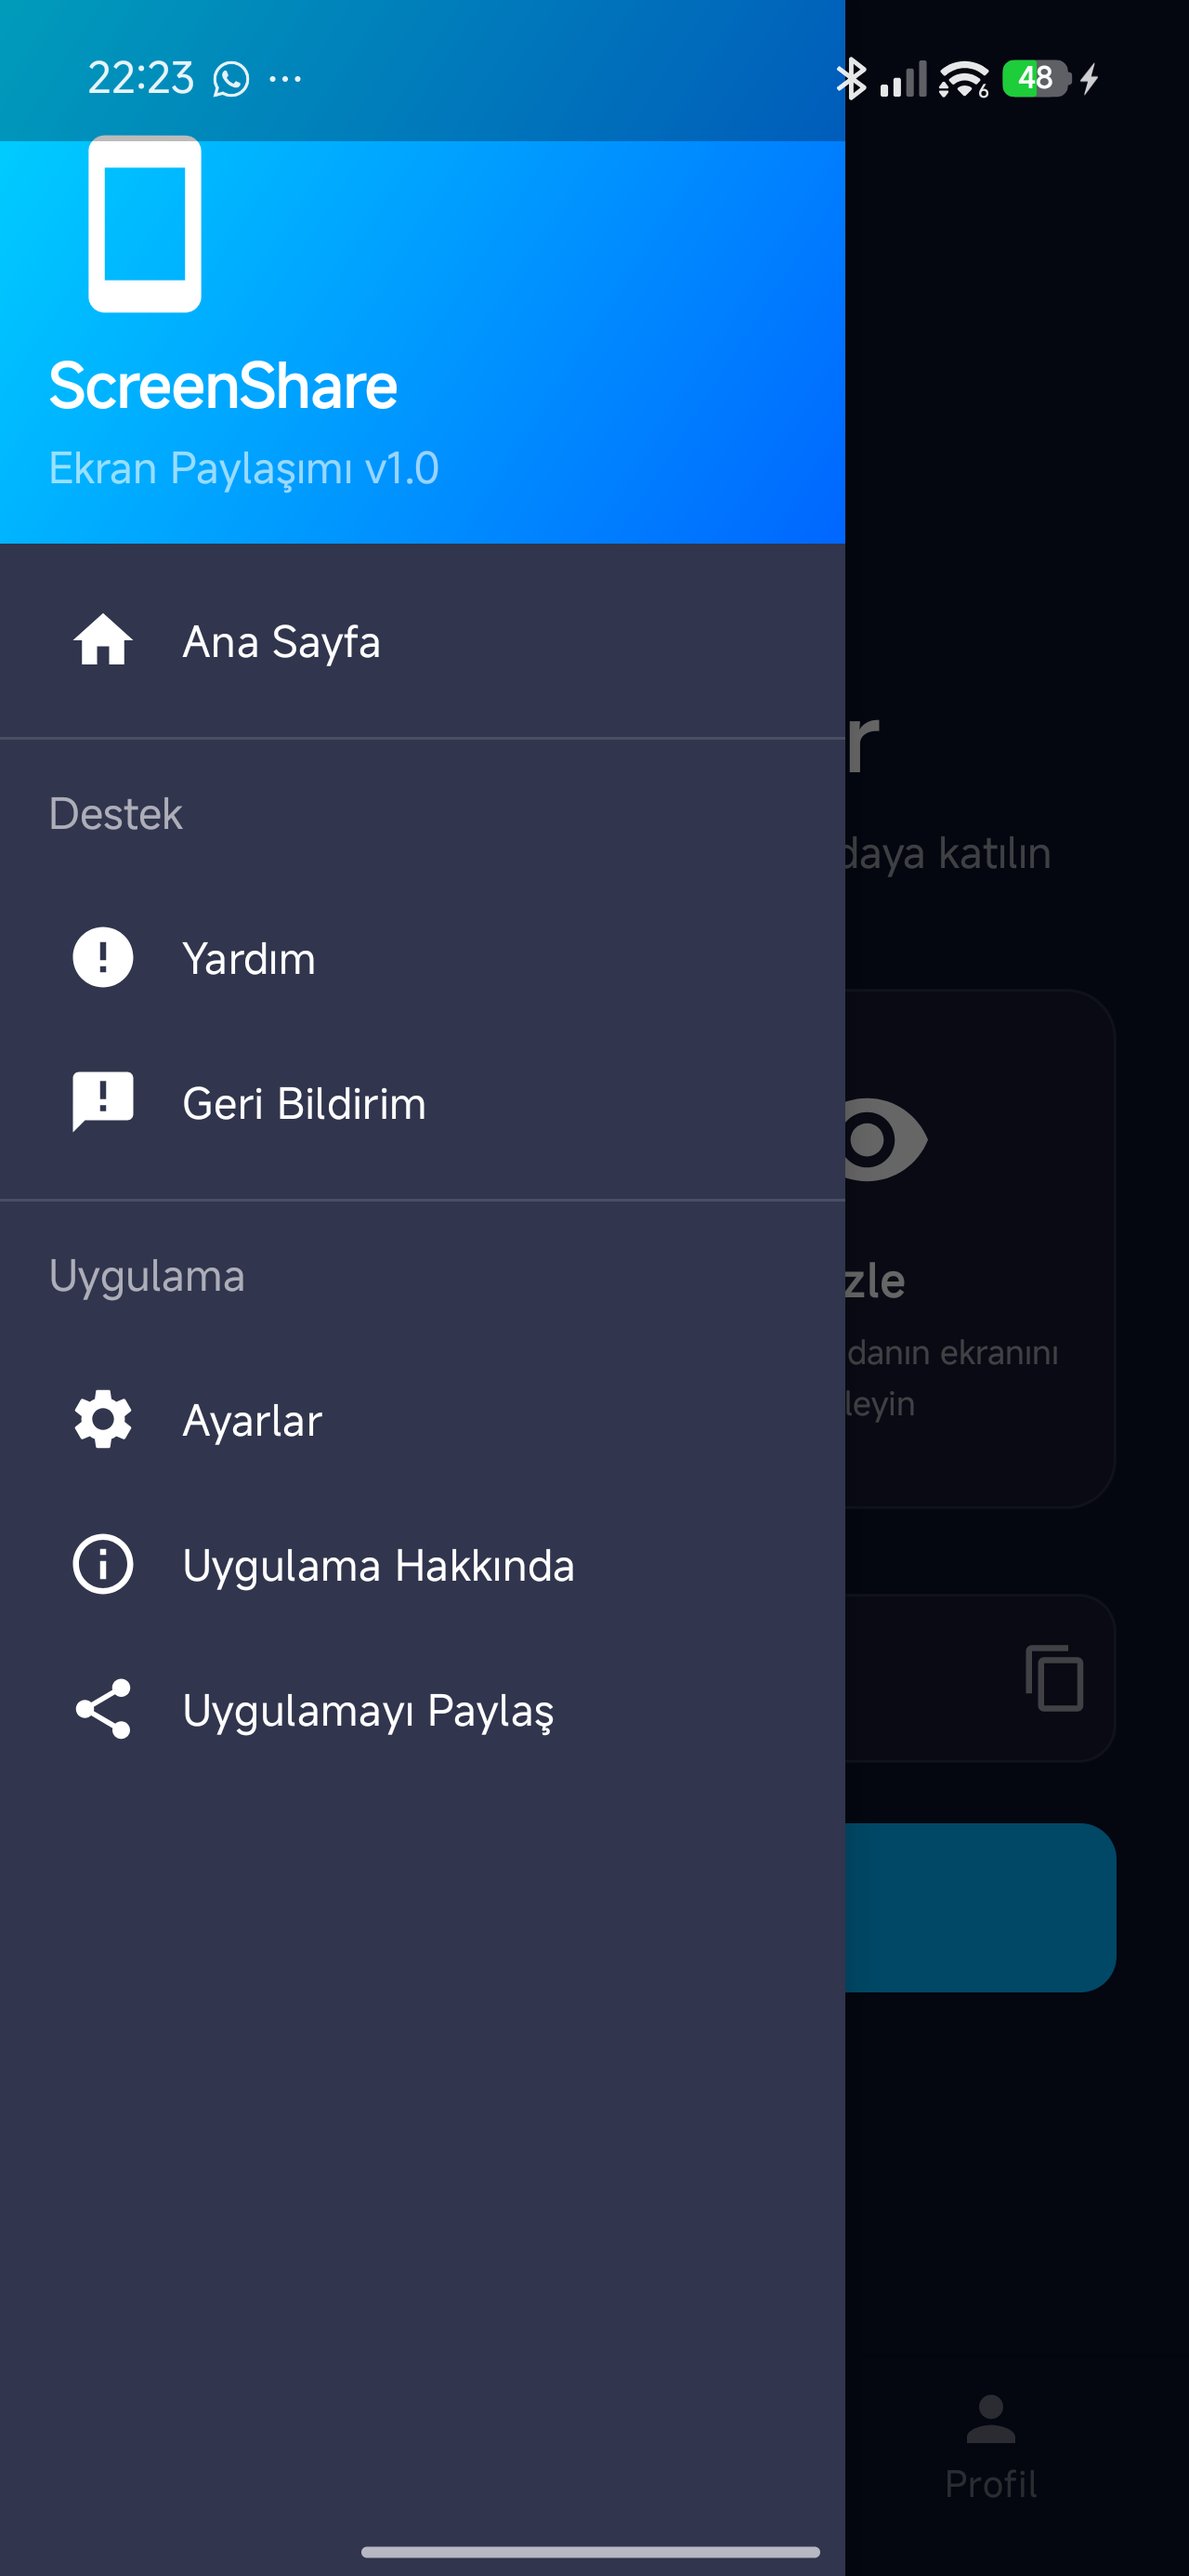
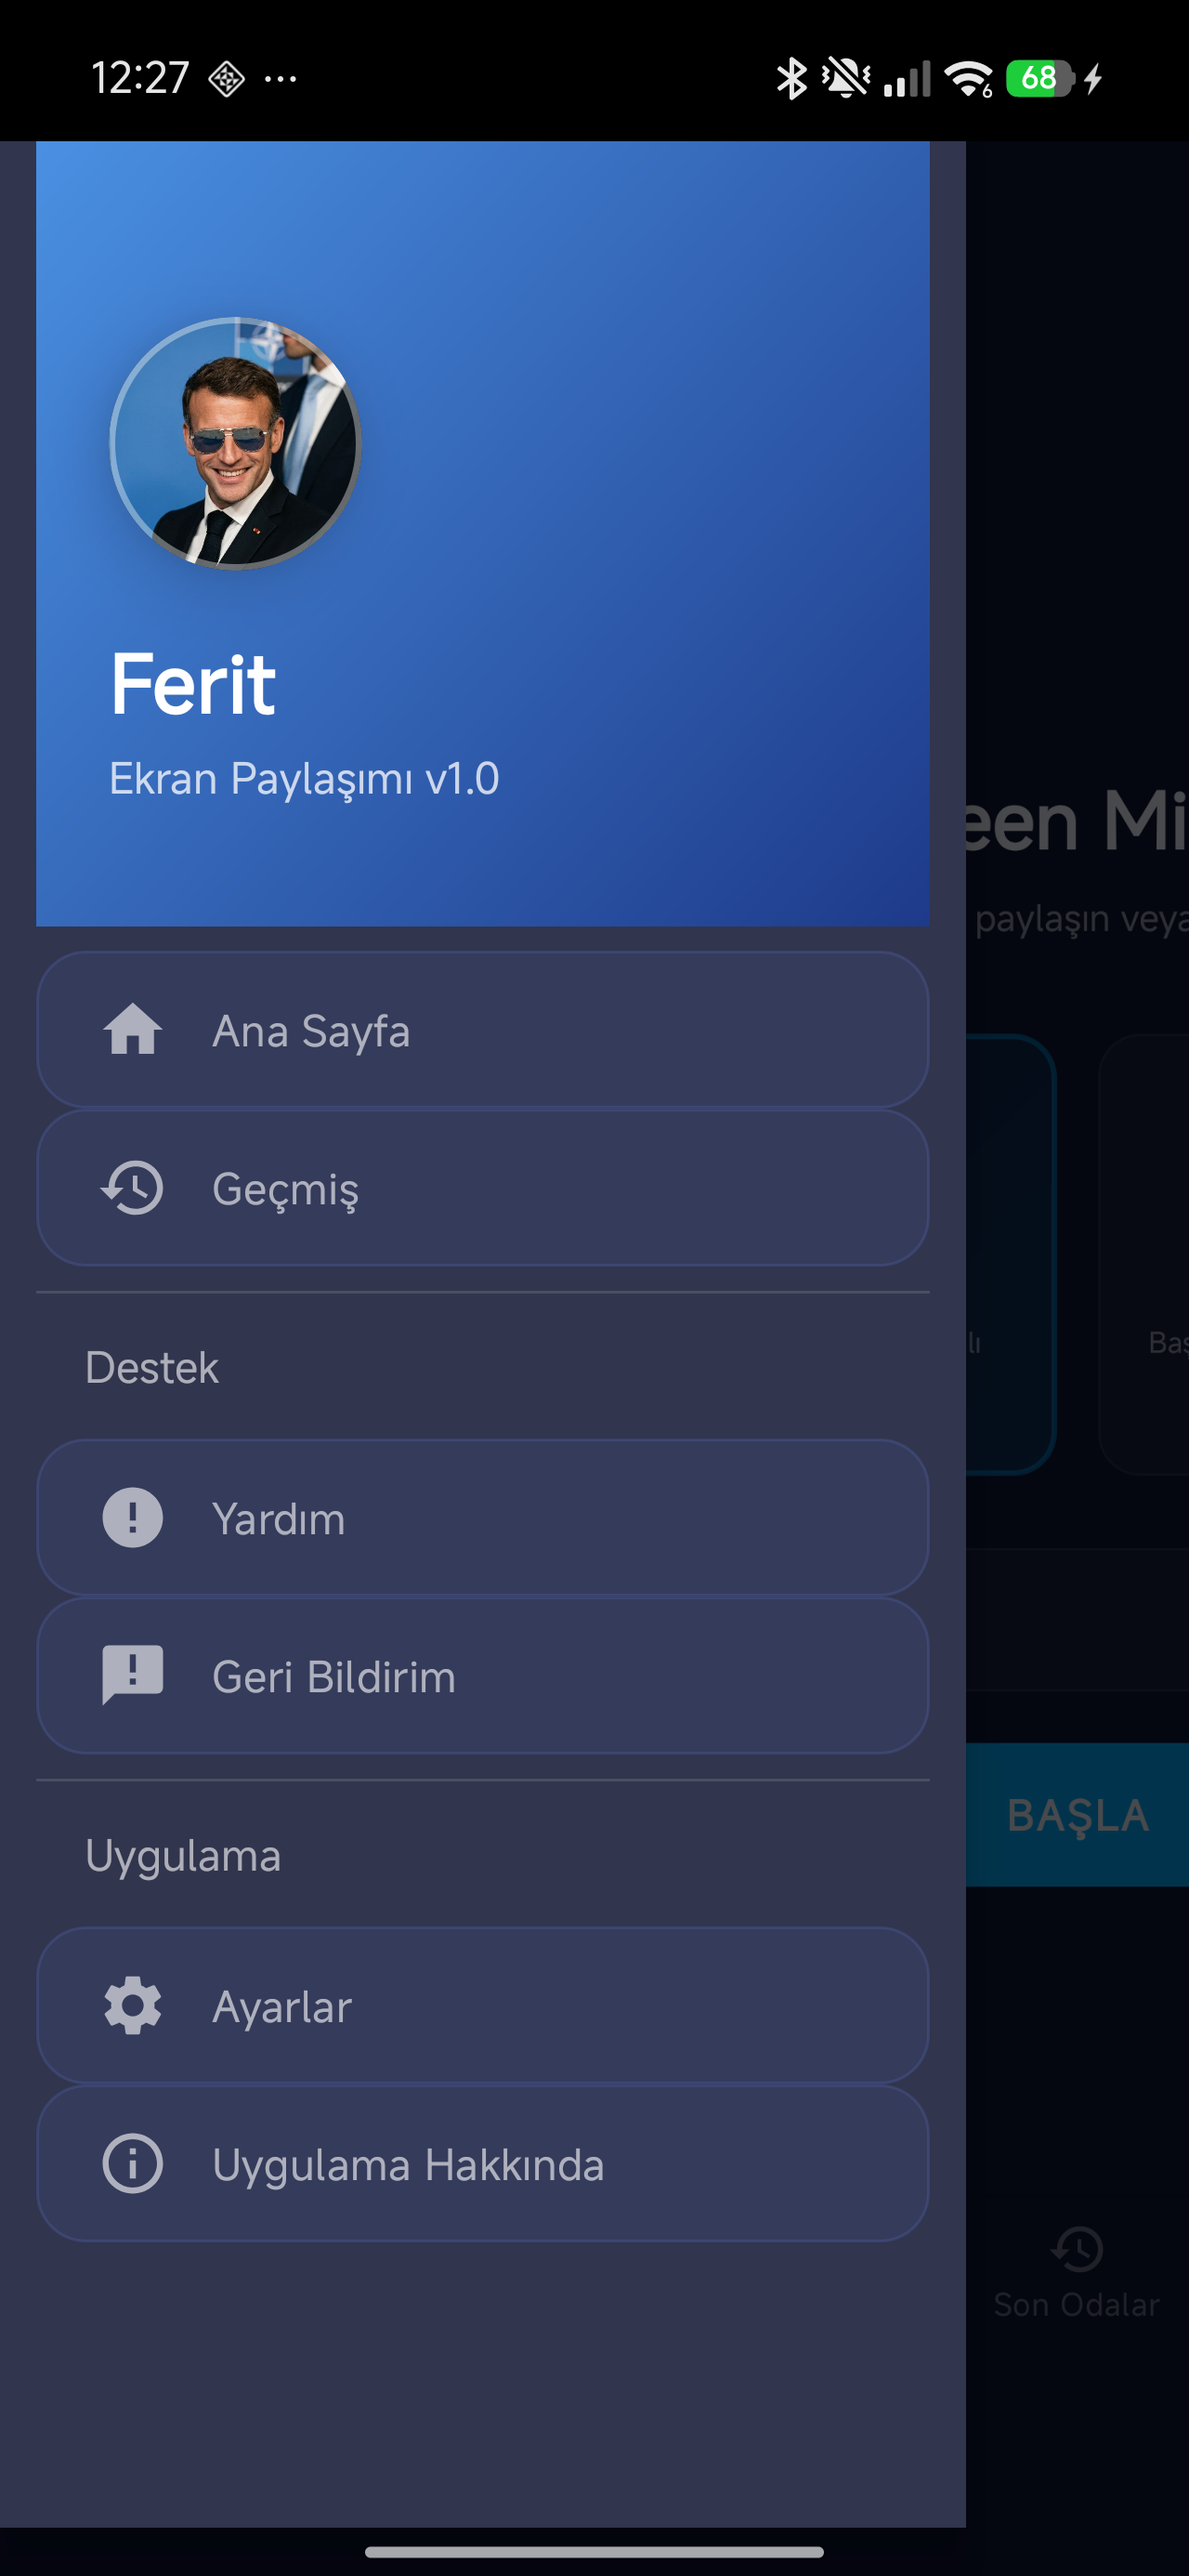
🖼 Drawer menü görseli ve açıklamaları güncellendi

diff --git a/README.md b/README.md
@@ -75,7 +75,7 @@ Screen Mirror; bir cihazın ekranını tek bir oda adı üzerinden, düşük gec
     <td align="center"><img src="screenshots/main_viewer_mode.png" width="200" alt="Ana ekran izleme modu"><br><b>Ana Ekran (İzle)</b></td>
   </tr>
   <tr>
-    <td align="center"><img src="screenshots/drawer.png" width="200" alt="Menü çekmecesi"><br><b>Menü (Drawer)</b></td>
+    <td align="center"><img src="screenshots/drawer.png" width="200" alt="Yeni drawer menü - profil ve navigasyon"><br><b>Drawer Menü</b></td>
     <td align="center"><img src="screenshots/sender.png" width="200" alt="Yayın ekranı"><br><b>Yayın (Host)</b></td>
     <td align="center"><img src="screenshots/viewer.png" width="200" alt="İzleme ekranı"><br><b>İzleme (Viewer)</b></td>
     <td align="center"><img src="screenshots/recent_activity_screen.png" width="200" alt="Son odalar - Yeni modern tasarım"><br><b>Son Odalar (Yeni)</b></td>
